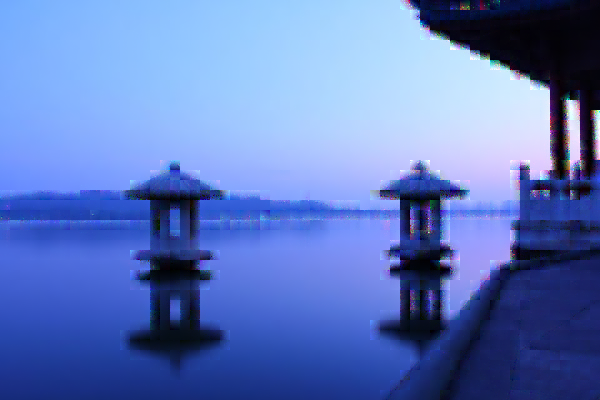
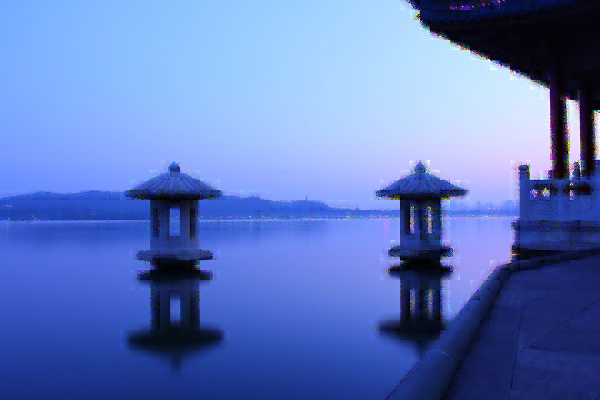
change main.py

diff --git a/Exp4_Image/main.py b/Exp4_Image/main.py
@@ -85,36 +85,37 @@ def normalization(image):
 def noise_mask_image(img, noise_ratio):
     """
     根据题目要求生成受损图片
-    :param img: 图像矩阵，一般为 np.ndarray
-    :param noise_ratio: 噪声比率，可能值是0.4/0.6/0.8
-    :return: noise_img 受损图片, 图像矩阵值 0-1 之间，数据类型为 np.array, 
+    :param img: cv2 读取图片,而且通道数顺序为 RGB
+    :param noise_ratio: 噪声比率，类型是 List,，内容:[r 上的噪声比率,g 上的噪声比率,b 上的噪声比率]
+                        默认值分别是 [0.8,0.4,0.6]
+    :return: noise_img 受损图片, 图像矩阵值 0-1 之间，数据类型为 np.array,
              数据类型对象 (dtype): np.double, 图像形状:(height,width,channel),通道(channel) 顺序为RGB
     """
     # 受损图片初始化
     noise_img = None
 
     # -------------实现受损图像答题区域-----------------
-    row, col = img.shape[0], img.shape[1]
-    rgb = [None, None, None]  # rgb
+    row = img.shape[0]
+    col = img.shape[1]
+    RGB = [None, None, None]
     for i in range(3):
-        # 构造其中一个通道的噪声图
+        # produce noised point for each color tunnel
         for j in range(row):
-            if rgb[i] is None:
-                rgb[i] = np.random.choice(2, (1, col),
-                                          p=[noise_ratio, 1 - noise_ratio])
+            if RGB[i] is not None:
+                tmp = np.random.choice(2, (1, col),
+                                       p=[noise_ratio[i], 1 - noise_ratio[i]])
+                RGB[i] = np.concatenate((RGB[i], tmp), axis=0)
             else:
-                a = np.random.choice(2, (1, col),
-                                     p=[noise_ratio, 1 - noise_ratio])
-                rgb[i] = np.concatenate((rgb[i], a), axis=0)
+                RGB[i] = np.random.choice(
+                    2, (1, col), p=[noise_ratio[i], 1 - noise_ratio[i]])
 
-    # 扩展 shape
+    # expand
     for i in range(3):
-        rgb[i] = rgb[i][:, :, np.newaxis]
-    # 合并
-    rst = np.concatenate((rgb[0], rgb[1], rgb[2]), axis=2)
-    noise_img = rst * img
+        RGB[i] = RGB[i][:, :, np.newaxis]
+    # merge
+    res = np.concatenate((RGB[0], RGB[1], RGB[2]), axis=2)
+    noise_img = res * img
     # -----------------------------------------------
-
     return noise_img
 
 
@@ -156,7 +157,7 @@ def compute_error(res_img, img):
 
 def restore_image(noise_img, size=4):
     """
-    使用 二元线性回归模型 进行图像恢复。
+    使用 二元线性回归模型 进行图像恢复
     :param noise_img: 一个受损的图像
     :param size: 输入区域半径，长宽是以 size*size 方形区域获取区域, 默认是 4
     :return: res_img 恢复后的图片，图像矩阵值 0-1 之间，数据类型为 np.array,
@@ -169,38 +170,38 @@ def restore_image(noise_img, size=4):
     noise_mask = get_noise_mask(noise_img)
 
     # -------------实现图像恢复代码答题区域----------------------------
-    rows, cols, channel = res_img.shape
-    region = 10  # 10 * 10
-    row_cnt = rows // region
-    col_cnt = cols // region
+    region = 10
+    row, col, channel = res_img.shape
+    rowCount = row // region
+    colCount = col // region
 
-    for chan in range(channel):
-        for rn in range(row_cnt + 1):
-            ibase = rn * region
-            if rn == row_cnt:
-                ibase = rows - region
-            for cn in range(col_cnt + 1):
-                jbase = cn * region
-                if cn == col_cnt:
-                    jbase = cols - region
-                x_train = []
-                y_train = []
-                x_test = []
+    for tunnel in range(channel):
+        for rowC in range(rowCount + 1):
+            ibase = rowC * region
+            if rowC == rowCount:
+                ibase = row - region
+            for colC in range(colCount + 1):
+                jbase = colC * region
+                if colC == colCount:
+                    jbase = col - region
+                xTrain = []
+                yTrain = []
+                xTest = []
                 for i in range(ibase, ibase + region):
                     for j in range(jbase, jbase + region):
-                        if noise_mask[i, j, chan] == 0:  # 噪音点
-                            x_test.append([i, j])
+                        if noise_mask[i, j, tunnel] == 0:
+                            xTest.append([i, j])
                             continue
-                        x_train.append([i, j])
-                        y_train.append([res_img[i, j, chan]])
-                if x_train == []:
-                    print("x_train is None")
+                        xTrain.append([i, j])
+                        yTrain.append([res_img[i, j, tunnel]])
+                if xTrain == []:
+                    print("nothing in xTrain")
                     continue
-                reg = LinearRegression()
-                reg.fit(x_train, y_train)
-                pred = reg.predict(x_test)
-                for i in range(len(x_test)):
-                    res_img[x_test[i][0], x_test[i][1], chan] = pred[i][0]
+                regression = LinearRegression()
+                regression.fit(xTrain, yTrain)
+                pdt = regression.predict(xTest)
+                for k in range(len(xTest)):
+                    res_img[xTest[k][0], xTest[k][1], tunnel] = pdt[k][0]
     res_img[res_img > 1.0] = 1.0
     res_img[res_img < 0.0] = 0.0
     # ---------------------------------------------------------------
@@ -211,7 +212,7 @@ if __name__ == "__main__":
     img_path = 'xihu.png'
     img = read_image(img_path)
 
-    noise_ratio = 0.8
+    noise_ratio = [0.8, 0.4, 0.6]
     nor_img = normalization(img)
     print(nor_img.shape)
 
